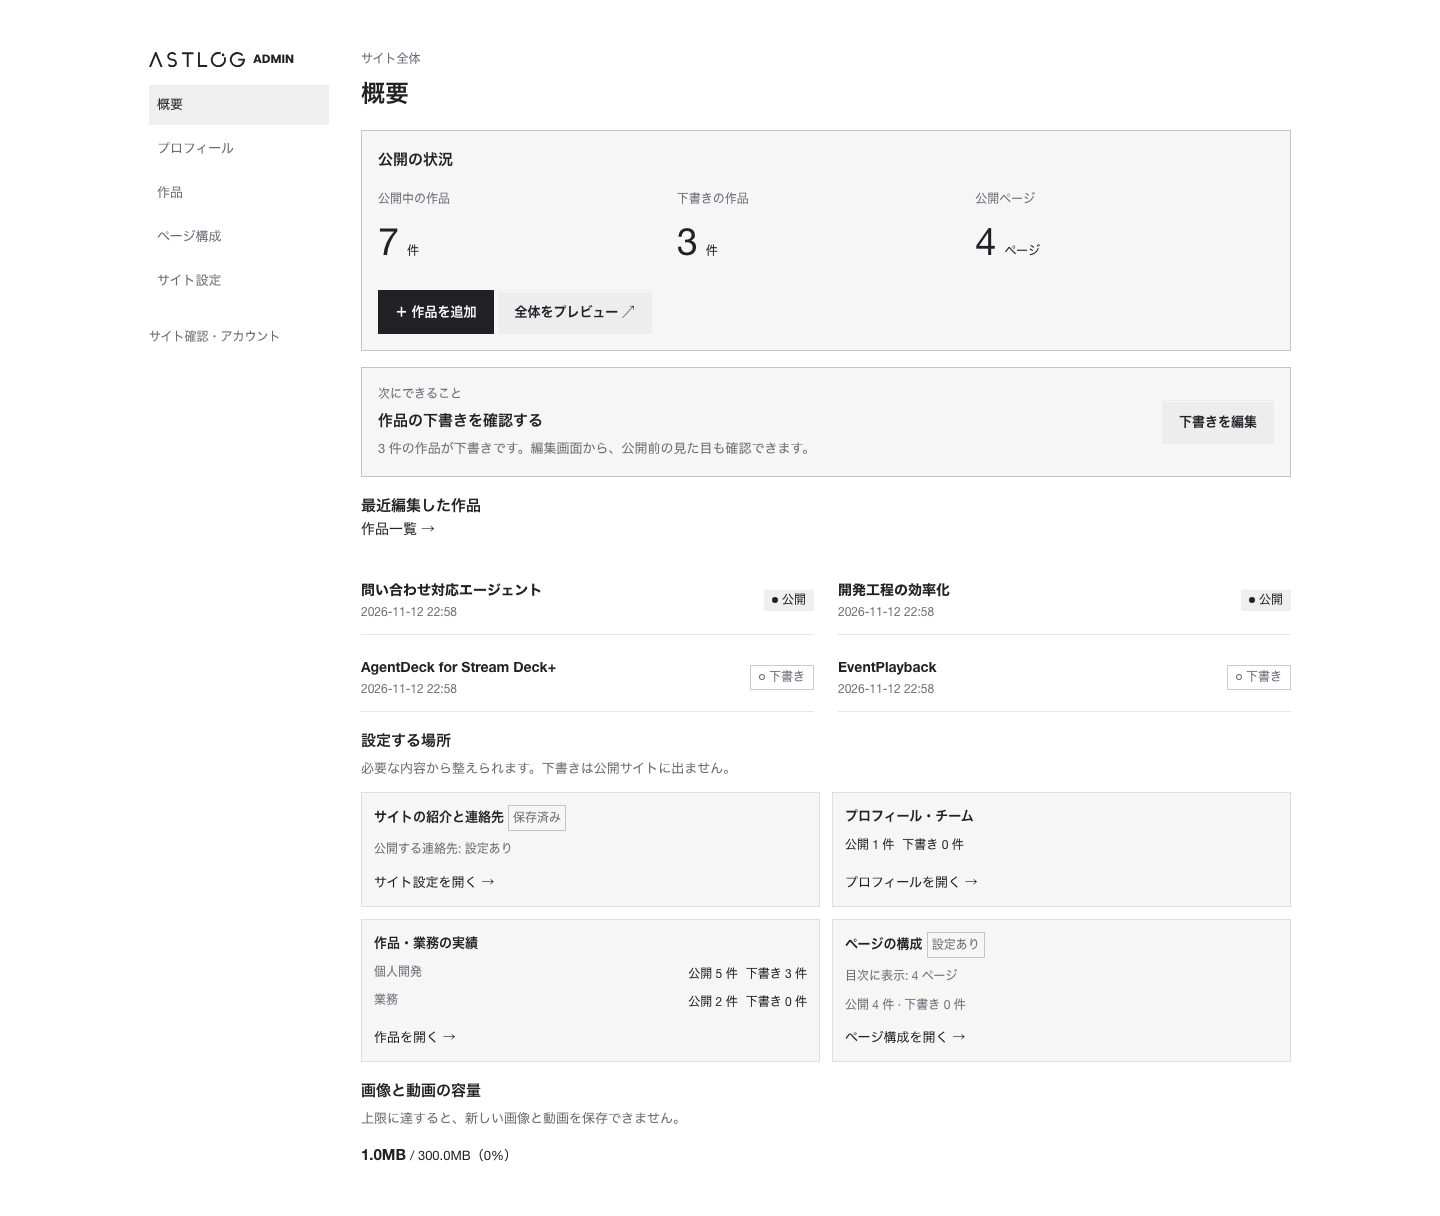
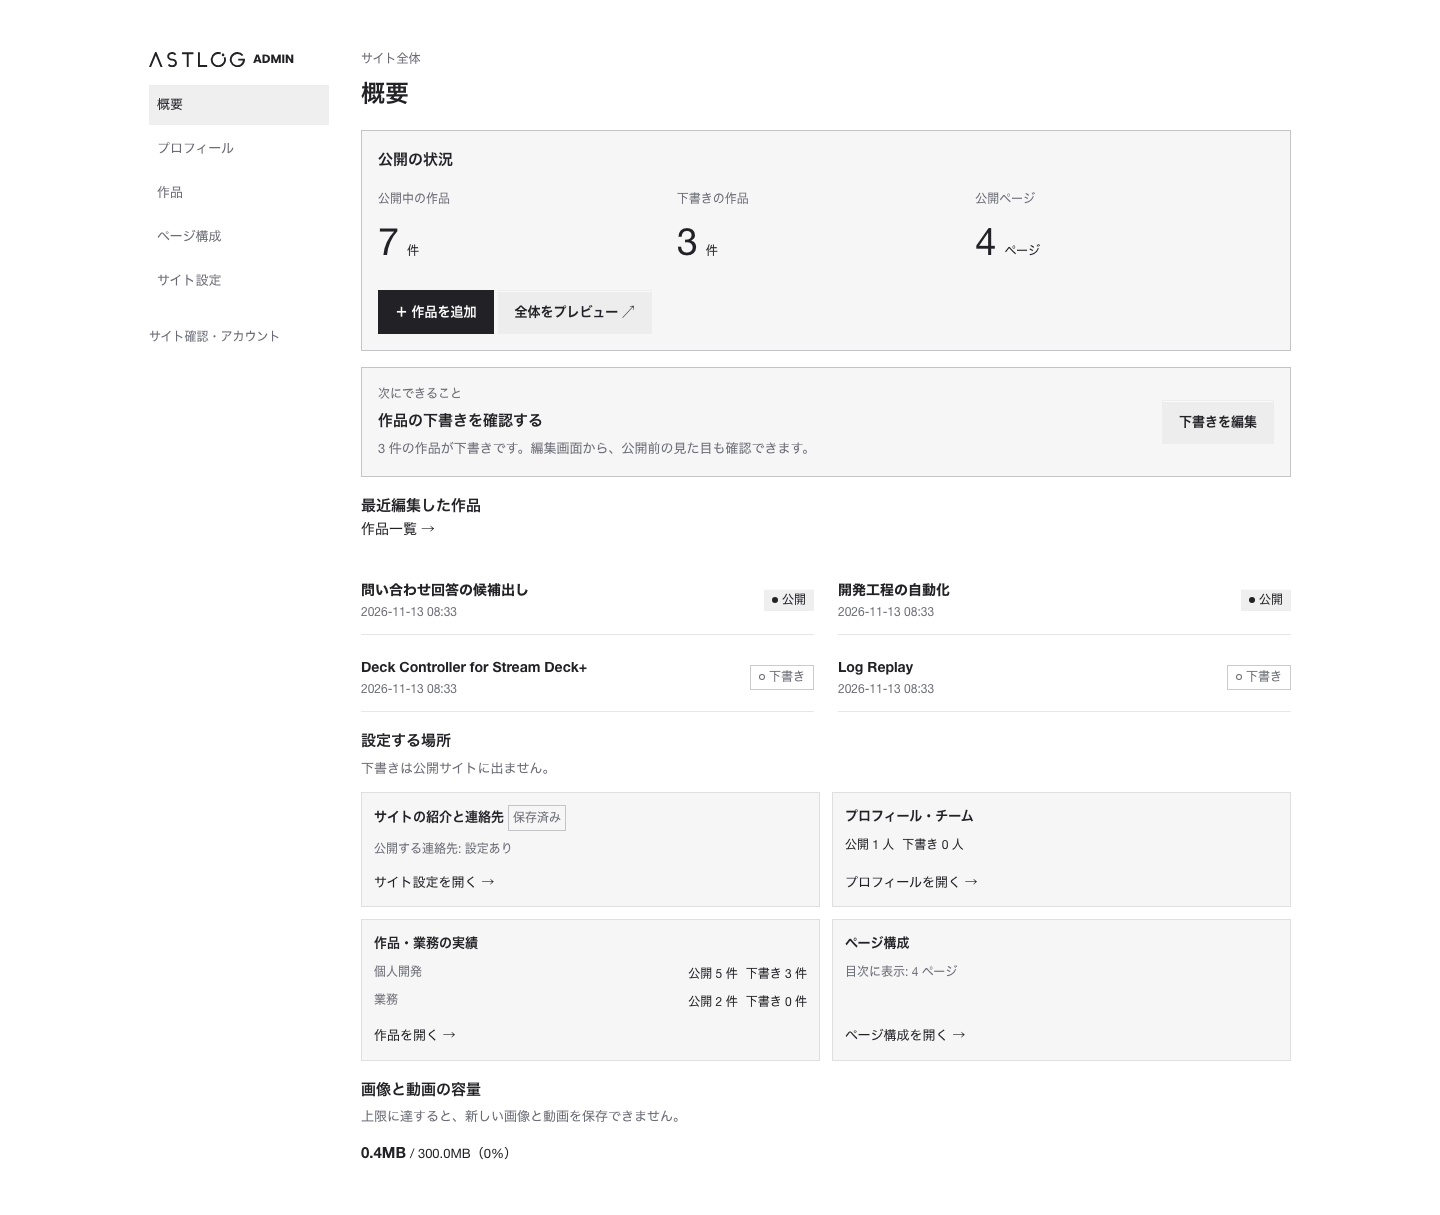
Tidy the admin overview's wording and fix its edit times
- Recent edits showed raw ISO times (2026-11-11T23:34:48.154Z):
  timeInJapan only read D1's "YYYY-MM-DD HH:MM:SS" and added a second
  Z to ISO strings. It now reads both, and the media screen drops its
  workaround.
- When nothing needs doing, the "次にできること" card no longer offers
  a second "open the preview" button right under the existing one.
- Profiles are counted in 人, projects in 件.
- The page-structure card uses the same name as the sidebar
  (ページ構成), drops the "設定あり" tag that said nothing, and shows
  the draft line only when there are drafts.
- The "設定する場所" lead keeps only the useful sentence, and the
  archived-images note becomes a full です/ます sentence.
- docs/admin-overview.png is retaken from check:admin.

diff --git a/src/ui/AdminDashboard.tsx b/src/ui/AdminDashboard.tsx
@@ -15,17 +15,21 @@ export type DashboardAction = {
   note: string
   href: string
   label: string
-  newTab?: boolean
 }
 
-const CountSummary = ({ counts }: { counts: DashboardCounts }) => (
+// 人は「人」、作品は「件」で数える
+const CountSummary = ({ counts, unit }: { counts: DashboardCounts; unit: '人' | '件' }) => (
   <span class="dashboard-counts">
     {counts.total === 0 ? (
       <span class="dashboard-state">未登録</span>
     ) : (
       <>
-        <span>公開 {counts.published} 件</span>
-        <span>下書き {counts.drafts} 件</span>
+        <span>
+          公開 {counts.published} {unit}
+        </span>
+        <span>
+          下書き {counts.drafts} {unit}
+        </span>
       </>
     )}
   </span>
@@ -41,7 +45,8 @@ export const AdminDashboard = (props: {
     published: number
     updatedAt: string
   }[]
-  next: DashboardAction
+  // やることが無いときは null（案内の面を出さない）
+  next: DashboardAction | null
   members: DashboardCounts
   apps: DashboardCounts
   works: DashboardCounts
@@ -102,21 +107,18 @@ export const AdminDashboard = (props: {
       </div>
     </section>
 
-    <section class="dashboard-next" aria-labelledby="dashboard-next-title">
-      <div>
-        <span class="dashboard-next__label">次にできること</span>
-        <h2 id="dashboard-next-title">{props.next.title}</h2>
-        <p>{props.next.note}</p>
-      </div>
-      <a
-        class="btn btn--ghost"
-        href={props.next.href}
-        target={props.next.newTab ? '_blank' : undefined}
-        rel={props.next.newTab ? 'noreferrer' : undefined}
-      >
-        {props.next.label}
-      </a>
-    </section>
+    {props.next ? (
+      <section class="dashboard-next" aria-labelledby="dashboard-next-title">
+        <div>
+          <span class="dashboard-next__label">次にできること</span>
+          <h2 id="dashboard-next-title">{props.next.title}</h2>
+          <p>{props.next.note}</p>
+        </div>
+        <a class="btn btn--ghost" href={props.next.href}>
+          {props.next.label}
+        </a>
+      </section>
+    ) : null}
 
     {props.recent?.length ? (
       <section class="dashboard-settings" aria-labelledby="dashboard-recent-title">
@@ -161,7 +163,7 @@ export const AdminDashboard = (props: {
     <section class="dashboard-settings" aria-labelledby="dashboard-settings-title">
       <div class="dashboard-settings__head">
         <h2 id="dashboard-settings-title">設定する場所</h2>
-        <p>必要な内容から整えられます。下書きは公開サイトに出ません。</p>
+        <p>下書きは公開サイトに出ません。</p>
       </div>
       <div class="dashboard-grid">
         <a class="dashboard-card" href="/admin/site">
@@ -181,7 +183,7 @@ export const AdminDashboard = (props: {
           <div class="dashboard-card__head">
             <h3>プロフィール・チーム</h3>
           </div>
-          <CountSummary counts={props.members} />
+          <CountSummary counts={props.members} unit="人" />
           {props.members.published > 0 && !props.profilesShown ? (
             <span class="dashboard-card__status">プロフィール・チームは目次から外れています</span>
           ) : null}
@@ -203,13 +205,13 @@ export const AdminDashboard = (props: {
             <div>
               <dt>個人開発</dt>
               <dd>
-                <CountSummary counts={props.apps} />
+                <CountSummary counts={props.apps} unit="件" />
               </dd>
             </div>
             <div>
               <dt>業務</dt>
               <dd>
-                <CountSummary counts={props.works} />
+                <CountSummary counts={props.works} unit="件" />
               </dd>
             </div>
           </dl>
@@ -223,21 +225,20 @@ export const AdminDashboard = (props: {
 
         <a class="dashboard-card" href="/admin/blocks">
           <div class="dashboard-card__head">
-            <h3>ページの構成</h3>
-            <span class="dashboard-state">
-              {props.blockCount === 0
-                ? '既定の並び'
-                : props.blockDrafts === props.blockCount
-                  ? 'すべて下書き'
-                  : props.pages === 0
-                    ? '目次に表示なし'
-                    : '設定あり'}
-            </span>
+            <h3>ページ構成</h3>
+            {/* 札は目を留めてほしい状態のときだけ。ふだんの「設定あり」は何も言っていなかった */}
+            {props.blockCount === 0 ? (
+              <span class="dashboard-state">既定の並び</span>
+            ) : props.blockDrafts === props.blockCount ? (
+              <span class="dashboard-state">すべて下書き</span>
+            ) : props.pages === 0 ? (
+              <span class="dashboard-state">目次に表示なし</span>
+            ) : null}
           </div>
           <span class="dashboard-card__status">目次に表示: {props.pages} ページ</span>
-          {props.blockCount > 0 ? (
+          {props.blockDrafts > 0 ? (
             <span class="dashboard-card__status">
-              公開 {props.blockCount - props.blockDrafts} 件 · 下書き {props.blockDrafts} 件
+              下書き {props.blockDrafts} 件（公開サイトに出ません）
             </span>
           ) : null}
           <span class="dashboard-card__action">ページ構成を開く →</span>
@@ -267,8 +268,8 @@ export const AdminDashboard = (props: {
       */}
       {props.storage.archived ? (
         <p class="dashboard-storage__note">
-          ほかに、外した画像の控えが {megabytes(props.storage.archived)}
-          （90日で消える。容量には数えない）。 <a href="/admin/media">外した画像を見る →</a>
+          ほかに、外した画像の控えが {megabytes(props.storage.archived)}{' '}
+          あります。容量には数えず、90日で消えます。 <a href="/admin/media">外した画像を見る →</a>
         </p>
       ) : null}
     </section>

diff --git a/test/dashboard.test.ts b/test/dashboard.test.ts
@@ -1,3 +1,4 @@
+import { eq } from 'drizzle-orm'
 import { beforeEach, describe, expect, it } from 'vitest'
 import * as schema from '../src/db/schema'
 import { db, get, resetDb, seedItem, seedMember, signIn } from './helpers'
@@ -93,7 +94,8 @@ describe('管理画面の概要', () => {
     const html = await (await signed('/admin')).text()
     expect(html).toContain('プロフィールの下書きを確認する')
     expect(html).toContain(`href="/admin/members/${member.id}/edit"`)
-    expect(plain(html)).toContain('公開 0 件下書き 1 件')
+    // プロフィールは人で数える
+    expect(plain(html)).toContain('公開 0 人下書き 1 人')
   })
 
   it('全ページの取り下げを既定の構成と混同しない', async () => {
@@ -118,14 +120,41 @@ describe('管理画面の概要', () => {
     expect(await db().query.blocks.findMany()).toHaveLength(4)
   })
 
-  it('保存済みの公開内容があるときは全体プレビューを案内する', async () => {
+  it('やることが無ければ「次にできること」を出さず、全体プレビューの押し手は1つ', async () => {
     await seedMember()
     await seedItem()
+    await db()
+      .insert(schema.blocks)
+      .values(
+        (['hero', 'projects', 'team', 'contact'] as const).map((type, i) => ({
+          type,
+          published: 1,
+          sortOrder: (i + 1) * 10,
+        })),
+      )
     const signed = await signIn()
     const html = await (await signed('/admin')).text()
-    expect(html).toContain('公開画面を確認する')
+    expect(html).not.toContain('次にできること')
     expect(html).toContain('保存済み')
     expect(html).not.toContain('公開準備完了')
+    // 本文の全体プレビューは「公開の状況」の1つだけ（横の柱の入口は別に数えない）
+    const main = html.slice(html.indexOf('id="admin-main"'))
+    expect(main.match(/href="\/admin\/preview"/g)).toHaveLength(1)
+    // ページ構成の札は、ふだんは何も言わない（見出しのすぐ後ろが目次の数）
+    expect(plain(html)).toContain('ページ構成目次に表示:')
+  })
+
+  it('最近編集した作品の日時は日本時間で出す（ISO のまま出さない）', async () => {
+    await seedMember()
+    const item = await seedItem()
+    await db()
+      .update(schema.items)
+      .set({ updatedAt: '2026-11-11T23:34:48.154Z' })
+      .where(eq(schema.items.id, item.id))
+    const signed = await signIn()
+    const html = await (await signed('/admin')).text()
+    expect(html).toContain('2026-11-12 08:34')
+    expect(html).not.toContain('2026-11-11T23:34:48.154Z')
   })
 
   it('業務だけ登録している場合は、空の個人開発一覧へ送らない', async () => {

diff --git a/src/routes/admin/dashboard.tsx b/src/routes/admin/dashboard.tsx
@@ -81,7 +81,11 @@ dashboardRoutes.get('/', async (c) => {
   const shown = (type: string) =>
     effectiveBlocks.some((block) => block.type === type && blockShown(block, counts))
 
-  let next: DashboardAction
+  /*
+    次にできること。やることが無ければ出さない——前は「公開画面を確認する」と全体プレビューを
+    案内していたが、すぐ上の「全体をプレビュー」と同じ行き先の押し手が2つ並んだ
+  */
+  let next: DashboardAction | null = null
   if (pages === 0) {
     next = {
       title: '公開ページの構成を確認する',
@@ -130,17 +134,9 @@ dashboardRoutes.get('/', async (c) => {
   } else if (members.firstDraft !== null) {
     next = {
       title: 'プロフィールの下書きを確認する',
-      note: `${members.drafts} 件のプロフィールが下書きです。載せるものだけ公開できます。`,
+      note: `${members.drafts} 人のプロフィールが下書きです。載せる人だけ公開できます。`,
       href: `/admin/members/${members.firstDraft}/edit`,
       label: '下書きを編集',
-    }
-  } else {
-    next = {
-      title: '公開画面を確認する',
-      note: '保存済みの公開内容をまとめて確認できます。必要なところから、いつでも編集できます。',
-      href: '/admin/preview',
-      label: 'プレビューを開く ↗',
-      newTab: true,
     }
   }
 

diff --git a/src/lib/format.ts b/src/lib/format.ts
@@ -190,11 +190,13 @@ export function yearInJapan(now: Date = new Date()): number {
 }
 
 /*
-  D1 の datetime('now')（UTC の「YYYY-MM-DD HH:MM:SS」）を、日本時間の
-  「YYYY-MM-DD HH:MM」にする。管理画面の「最後のログイン」。読めない値はそのまま返す
+  UTC の時刻を日本時間の「YYYY-MM-DD HH:MM」にする。来る形は2つ——D1 の datetime('now')
+  （「YYYY-MM-DD HH:MM:SS」。最後のログイン）と、ISO の時刻（「…T…Z」。作品の更新日時・外した
+  画像の日付）。時差の印が無ければ UTC として読む。読めない値はそのまま返す
 */
 export function timeInJapan(utc: string): string {
-  const date = new Date(`${utc.replace(' ', 'T')}Z`)
+  const iso = utc.replace(' ', 'T')
+  const date = new Date(/(?:Z|[+-]\d\d:\d\d)$/.test(iso) ? iso : `${iso}Z`)
   if (Number.isNaN(date.getTime())) return utc
   return new Date(date.getTime() + JST_OFFSET_MS).toISOString().slice(0, 16).replace('T', ' ')
 }

diff --git a/test/format.test.ts b/test/format.test.ts
@@ -10,6 +10,7 @@ import {
   parseSkills,
   parseTags,
   skillRows,
+  timeInJapan,
   toSlug,
   yearFrom,
   yearInJapan,
@@ -215,6 +216,16 @@ describe('yearInJapan', () => {
   it('日本時間で年を数える。UTC の大晦日 15 時は、日本ではもう元日', () => {
     expect(yearInJapan(new Date('2026-12-31T14:59:59Z'))).toBe(2026)
     expect(yearInJapan(new Date('2026-12-31T15:00:00Z'))).toBe(2027)
+  })
+})
+
+describe('timeInJapan', () => {
+  it('D1 の datetime と ISO の時刻のどちらも、日本時間の分までにする', () => {
+    // 概要の「最近編集した作品」が「2026-11-11T23:34:48.154Z」のまま出ていた（Z を2つ付けて読めなかった）
+    expect(timeInJapan('2026-11-11 23:34:48')).toBe('2026-11-12 08:34')
+    expect(timeInJapan('2026-11-11T23:34:48.154Z')).toBe('2026-11-12 08:34')
+    expect(timeInJapan('2026-11-11T23:34:48+09:00')).toBe('2026-11-11 23:34')
+    expect(timeInJapan('読めない')).toBe('読めない')
   })
 })
 

diff --git a/src/routes/admin/media.tsx b/src/routes/admin/media.tsx
@@ -63,7 +63,7 @@ const fileHref = (one: Pick<Archived, 'place' | 'name'>) =>
   `/admin/media/file/${one.place}/${one.name}`
 
 // 「2026-11-12」。日本の日付で言う（外した日・消える日）
-const day = (iso: string | undefined) => (iso ? timeInJapan(iso.replace('Z', '')).slice(0, 10) : '')
+const day = (iso: string | undefined) => (iso ? timeInJapan(iso).slice(0, 10) : '')
 
 mediaRoutes.get('/media', async (c) => {
   const archived = await listArchive(c.env.MEDIA)
